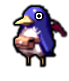
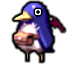
a

diff --git a/src/Player.java b/src/Player.java
@@ -4,6 +4,7 @@
 
 import java.awt.*;
 
+
 import java.awt.geom.Rectangle2D;
 import java.util.*;
 import jay.jaysound.JayLayer;
@@ -22,7 +23,10 @@ public class Player extends MovingImage implements JayLayerListener {
 	private JayLayer sound;
 
 	private PImage hitboxtemp;
-	
+	private PImage hitboxtemp2;
+	private PImage hitboxtemp3;
+	private PImage hitboxtemp4;
+
 	private double xVelocity, yVelocity;
 	private boolean onASurface;
 	private double friction;
@@ -60,7 +64,11 @@ private String[] soundEffects;
 		hp = 100;
 		combo = 0;
 		
-		hitboxtemp = (new PApplet()).loadImage("imgs/hitboxtemp.png");
+		hitboxtemp = (new PApplet()).loadImage("imgs/trans.png");
+		hitboxtemp2 = (new PApplet()).loadImage("imgs/slash.png");
+		hitboxtemp3 = (new PApplet()).loadImage("imgs/slashflip.png");
+		hitboxtemp4 = (new PApplet()).loadImage("imgs/slashdown.png");
+
 		soundEffects = new String[]{"Jump.mp3", "Dash.mp3", "slash.mp3","damage.mp3"};
 		sound=new JayLayer("audio/","audio/",false);
 		sound.addPlayList();
@@ -134,6 +142,8 @@ private String[] soundEffects;
 			}else*/ if (!(onASurface) && stamina >= 20) {
 				if (direction) {
 					dash = 100000000;
+					super.setImage(images.get(8));
+
 				sound.playSoundEffect(1);
 				soundEffects = new String[]{"Jump.mp3", "Dash.mp3", "slash.mp3","damage.mp3"};
 				sound=new JayLayer("audio/","audio/",false);
@@ -141,6 +151,11 @@ private String[] soundEffects;
 				sound.addSoundEffects(soundEffects);
 				sound.changePlayList(0);
 				sound.addJayLayerListener(this);
+				
+				
+
+			
+
 				}
 				else {
 					dash = 100000000;
@@ -151,6 +166,8 @@ private String[] soundEffects;
 					sound.addSoundEffects(soundEffects);
 					sound.changePlayList(0);
 					sound.addJayLayerListener(this);
+					super.setImage(images.get(9));
+
 				}
 				stamina -= 20;
 				invincible = 200000000;
@@ -187,10 +204,10 @@ private String[] soundEffects;
 				xVelocity = 0;
 				delay = 300000000;
 				if (direction) {
-					map.addHitbox(new Hitbox(new ArrayList<PImage>(Arrays.asList(hitboxtemp, hitboxtemp, hitboxtemp, hitboxtemp, hitboxtemp)),
+					map.addHitbox(new Hitbox(new ArrayList<PImage>(Arrays.asList(hitboxtemp, hitboxtemp, hitboxtemp, hitboxtemp, hitboxtemp2)),
 							(int)(x+40- PLAYER_WIDTH/2), (int)y -5, 75, 75, 5, 5, 1, -1));
 				} else {
-					map.addHitbox(new Hitbox(new ArrayList<PImage>(Arrays.asList(hitboxtemp, hitboxtemp, hitboxtemp, hitboxtemp, hitboxtemp)),
+					map.addHitbox(new Hitbox(new ArrayList<PImage>(Arrays.asList(hitboxtemp, hitboxtemp, hitboxtemp, hitboxtemp, hitboxtemp3)),
 							(int)(x-35- PLAYER_WIDTH/2), (int)y -5, 75, 75, 5, 5, -1, -1));
 				}
 				sound.playSoundEffect(2);
@@ -206,10 +223,10 @@ private String[] soundEffects;
 				delay = 200000000;
 				gravIgnore = 220000000;
 				if (direction) {
-					map.addHitbox(new Hitbox(new ArrayList<PImage>(Arrays.asList(hitboxtemp, hitboxtemp, hitboxtemp, hitboxtemp, hitboxtemp)),
+					map.addHitbox(new Hitbox(new ArrayList<PImage>(Arrays.asList(hitboxtemp, hitboxtemp, hitboxtemp, hitboxtemp, hitboxtemp2)),
 							(int)(x+40- PLAYER_WIDTH/2), (int)y -5, 75, 75, 7, 5, 2, -2));
 				} else {
-					map.addHitbox(new Hitbox(new ArrayList<PImage>(Arrays.asList(hitboxtemp, hitboxtemp, hitboxtemp, hitboxtemp, hitboxtemp)),
+					map.addHitbox(new Hitbox(new ArrayList<PImage>(Arrays.asList(hitboxtemp, hitboxtemp, hitboxtemp, hitboxtemp, hitboxtemp3)),
 							(int)(x-35- PLAYER_WIDTH/2), (int)y -5, 75, 75, 7, 5, -2, -2));
 				}
 				sound.playSoundEffect(2);
@@ -236,10 +253,10 @@ private String[] soundEffects;
 				xVelocity = 0;
 				delay = 500000000;
 				if (direction) {
-					map.addHitbox(new Hitbox(new ArrayList<PImage>(Arrays.asList(hitboxtemp, hitboxtemp, hitboxtemp, hitboxtemp, hitboxtemp)),
+					map.addHitbox(new Hitbox(new ArrayList<PImage>(Arrays.asList(hitboxtemp, hitboxtemp, hitboxtemp, hitboxtemp, hitboxtemp2)),
 							(int)(x+40- PLAYER_WIDTH/2), (int)y -25, 100, 100, 10, 5, 10, -13));
 				} else {
-					map.addHitbox(new Hitbox(new ArrayList<PImage>(Arrays.asList(hitboxtemp, hitboxtemp, hitboxtemp, hitboxtemp, hitboxtemp)),
+					map.addHitbox(new Hitbox(new ArrayList<PImage>(Arrays.asList(hitboxtemp, hitboxtemp, hitboxtemp, hitboxtemp, hitboxtemp3)),
 							(int)(x-55- PLAYER_WIDTH/2), (int)y -25, 100, 100, 10, 5, -10, -13));
 				}
 				sound.playSoundEffect(2);
@@ -255,10 +272,10 @@ private String[] soundEffects;
 				delay = 300000000;
 				gravIgnore = 325000000;
 				if (direction) {
-					map.addHitbox(new Hitbox(new ArrayList<PImage>(Arrays.asList(hitboxtemp, hitboxtemp, hitboxtemp, hitboxtemp, hitboxtemp)),
+					map.addHitbox(new Hitbox(new ArrayList<PImage>(Arrays.asList(hitboxtemp, hitboxtemp, hitboxtemp, hitboxtemp, hitboxtemp2)),
 							(int)(x+40- PLAYER_WIDTH/2), (int)y -25, 100, 100, 20, 5, 15, -10));
 				} else {
-					map.addHitbox(new Hitbox(new ArrayList<PImage>(Arrays.asList(hitboxtemp, hitboxtemp, hitboxtemp, hitboxtemp, hitboxtemp)),
+					map.addHitbox(new Hitbox(new ArrayList<PImage>(Arrays.asList(hitboxtemp, hitboxtemp, hitboxtemp, hitboxtemp, hitboxtemp3)),
 							(int)(x-55- PLAYER_WIDTH/2), (int)y -25, 100, 100, 20, 5, -15, -10));
 				}
 				sound.playSoundEffect(2);
@@ -334,20 +351,20 @@ private String[] soundEffects;
 			stamina = 100;
 		if(dive == 1) {
 			if (direction) {
-				map.addHitbox(new Hitbox(new ArrayList<PImage>(Arrays.asList(hitboxtemp, hitboxtemp)),
+				map.addHitbox(new Hitbox(new ArrayList<PImage>(Arrays.asList(hitboxtemp, hitboxtemp4)),
 						(int)(x), (int)y + 50, 50, 50, 10, 2, 7, -13));
 			} else {
-				map.addHitbox(new Hitbox(new ArrayList<PImage>(Arrays.asList(hitboxtemp, hitboxtemp)),
+				map.addHitbox(new Hitbox(new ArrayList<PImage>(Arrays.asList(hitboxtemp, hitboxtemp4)),
 						(int)(x), (int)y + 50, 50, 50, 10, 2, -7, -13));
 			}
 			
 			delay = 100000000;
 		} else if (dive == 2) {
 			if (direction) {
-				map.addHitbox(new Hitbox(new ArrayList<PImage>(Arrays.asList(hitboxtemp, hitboxtemp)),
+				map.addHitbox(new Hitbox(new ArrayList<PImage>(Arrays.asList(hitboxtemp, hitboxtemp4)),
 						(int)(x - 5), (int)y + 60, 60, 60, 25, 2, 20, -15));
 			} else {
-				map.addHitbox(new Hitbox(new ArrayList<PImage>(Arrays.asList(hitboxtemp, hitboxtemp)),
+				map.addHitbox(new Hitbox(new ArrayList<PImage>(Arrays.asList(hitboxtemp, hitboxtemp4)),
 						(int)(x - 5), (int)y + 60, 60, 60, 25, 2, -20, -15));
 			}
 			delay = 100000000;
@@ -422,11 +439,11 @@ private String[] soundEffects;
 			if (direction) {
 				
 				xVelocity = 30;
-				map.addHitbox(new Hitbox(new ArrayList<PImage>(Arrays.asList(hitboxtemp, hitboxtemp)),(int)(x - PLAYER_WIDTH/2 +  xVelocity*timeElapsed/14000000), (int)y, 75, 50, 10, 2, 10, -12));
+				map.addHitbox(new Hitbox(new ArrayList<PImage>(Arrays.asList(hitboxtemp, hitboxtemp2)),(int)(x - PLAYER_WIDTH/2 +  xVelocity*timeElapsed/14000000), (int)y, 75, 50, 10, 2, 10, -12));
 			} else {
 				
 				xVelocity = -30;
-				map.addHitbox(new Hitbox(new ArrayList<PImage>(Arrays.asList(hitboxtemp, hitboxtemp)),(int)(x - PLAYER_WIDTH/2 +  xVelocity*timeElapsed/14000000), (int)y, 75, 50, 10, 2, -10, -12));
+				map.addHitbox(new Hitbox(new ArrayList<PImage>(Arrays.asList(hitboxtemp, hitboxtemp3)),(int)(x - PLAYER_WIDTH/2 +  xVelocity*timeElapsed/14000000), (int)y, 75, 50, 10, 2, -10, -12));
 			}
 			
 		} 

diff --git a/src/DrawingSurface.java b/src/DrawingSurface.java
@@ -51,7 +51,7 @@ public class DrawingSurface extends PApplet implements MouseListener{
 			checksPassed[i] = false;
 		}
 		checksPassed[0] = true;
-		player = new Player(new ArrayList<PImage>(Arrays.asList(loadImage("imgs/prinnystill.gif"), loadImage("imgs/prinnystillflip.png"), loadImage("imgs/prinnyrun.png"),loadImage("imgs/prinnyrunflip.png"), loadImage("imgs/prinnyjump.png"),loadImage("imgs/prinnyjumpflip.png"), loadImage("imgs/prinnydive.png"),loadImage("imgs/prinnydiveflip.png"))), (int)(map.getCheckpoints().get(0).getCenterX() -Player.PLAYER_WIDTH/2) ,(int)(map.getCheckpoints().get(0).getCenterY() -Player.PLAYER_HEIGHT/2));
+		player = new Player(new ArrayList<PImage>(Arrays.asList(loadImage("imgs/prinnystill.png"), loadImage("imgs/prinnystillflip.png"), loadImage("imgs/prinnyrun.png"),loadImage("imgs/prinnyrunflip.png"), loadImage("imgs/prinnyjump.png"),loadImage("imgs/prinnyjumpflip.png"), loadImage("imgs/prinnydive.png"),loadImage("imgs/prinnydiveflip.png"),loadImage("imgs/prinnydash.png"),loadImage("imgs/prinnydashflip.png"))), (int)(map.getCheckpoints().get(0).getCenterX() -Player.PLAYER_WIDTH/2) ,(int)(map.getCheckpoints().get(0).getCenterY() -Player.PLAYER_HEIGHT/2));
 		camx = player.x;
 		camy = player.y;
 		lastUpdate = System.nanoTime();
